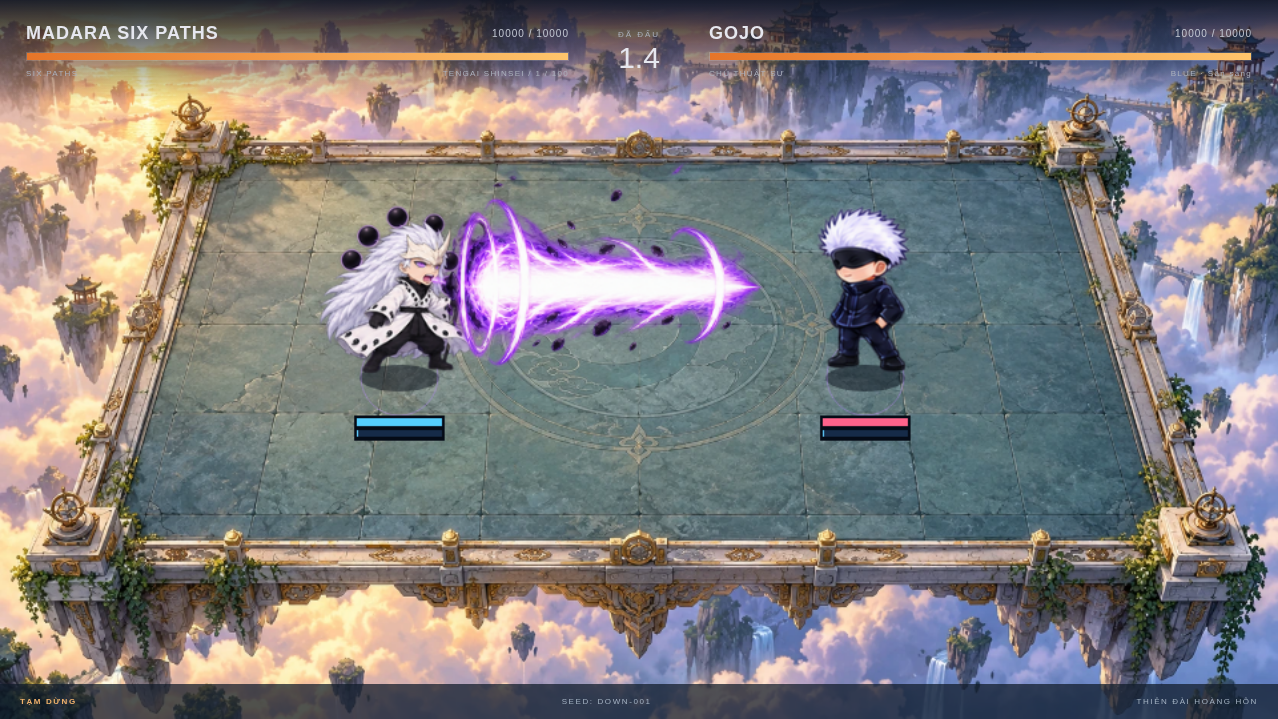
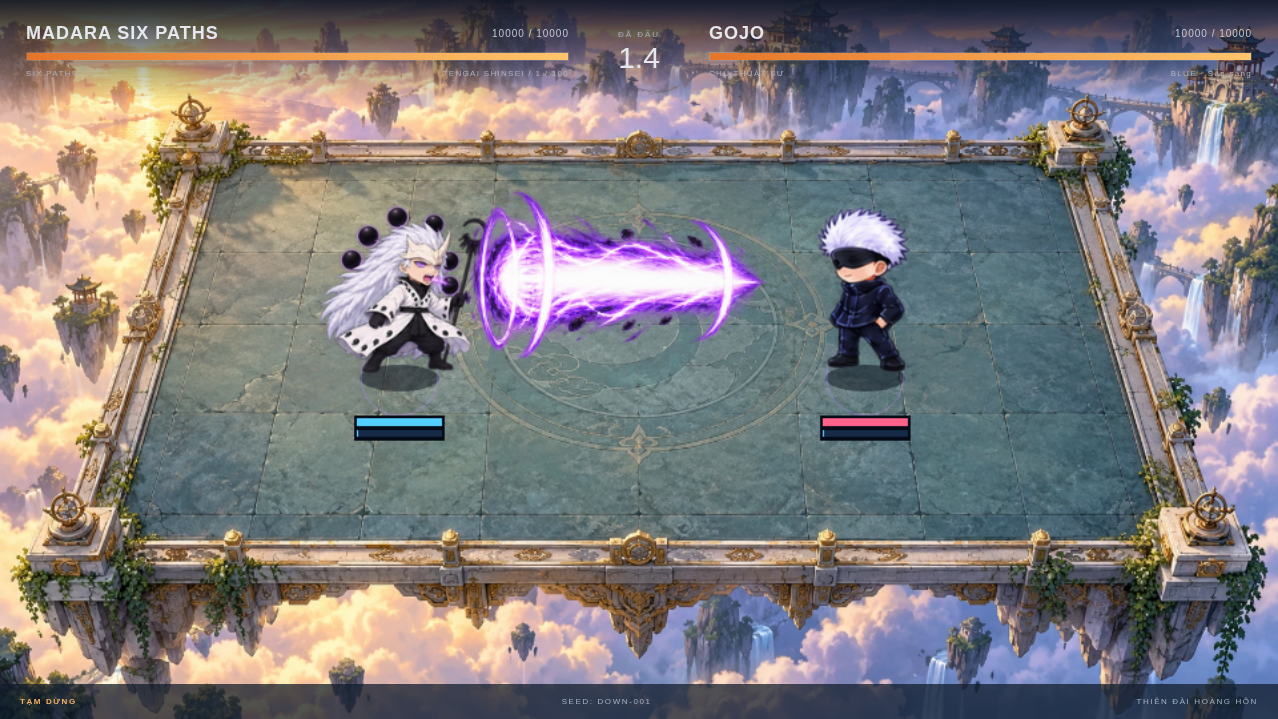
Align Madara meteor warning with the full radial damage area

Changed region(s): [[0.3357, 0.2754, 0.6103, 0.5202]]

diff --git a/dist/src/render/madara.js b/dist/src/render/madara.js
@@ -10,7 +10,7 @@ export function drawMadaraActor(ctx,images,d,f,hurt=false,override=null){let p=m
  madaraSprite(ctx,images,p.key,p.row,p.frame,f.x,y,.86,0,f.face);
 }
 export function drawMadaraBack(ctx,images,d,clock=0){for(const f of d.fighters)if(f.id==='madara'&&f.hp>0){if(f.introAge!=null){const p=f.introAge/2.5;ctx.save();ctx.globalAlpha=.72;madaraSprite(ctx,images,'madara_intro_vfx',0,Math.min(3,Math.floor(p*4)),f.x,f.y+2,.65);ctx.restore();}else if(f.sixPathsAwakened){ctx.save();ctx.globalAlpha=.2;madaraSprite(ctx,images,'madara_intro_vfx',0,2,f.x,f.y,.38);ctx.restore();}}}
-function warning(ctx,x,y,radius,clock){ctx.save();ctx.strokeStyle='#d799ff';ctx.fillStyle='#9e50ff12';ctx.lineWidth=2;ctx.setLineDash([10,7]);ctx.beginPath();ctx.ellipse(x,y,radius,radius*.58,0,0,Math.PI*2);ctx.fill();ctx.stroke();ctx.setLineDash([]);ctx.globalAlpha=.55+.25*Math.sin(clock*10);ctx.beginPath();ctx.ellipse(x,y,radius*.72,radius*.42,0,0,Math.PI*2);ctx.stroke();ctx.restore();}
+function warning(ctx,x,y,radius,clock){ctx.save();ctx.strokeStyle='#d799ff';ctx.fillStyle='#9e50ff12';ctx.lineWidth=2;ctx.setLineDash([10,7]);ctx.beginPath();ctx.ellipse(x,y,radius,radius,0,0,Math.PI*2);ctx.fill();ctx.stroke();ctx.setLineDash([]);ctx.globalAlpha=.55+.25*Math.sin(clock*10);ctx.beginPath();ctx.ellipse(x,y,radius*.72,radius*.72,0,0,Math.PI*2);ctx.stroke();ctx.restore();}
 export function drawMadaraMeteor(ctx,images,x,y,progress,impact=false,reduced=false){if(impact){madaraSprite(ctx,images,'madara_ultimate_vfx',1,Math.min(3,Math.floor(progress*4)),x,y-25,reduced?.88:1.1);}else{const p=Math.max(0,Math.min(1,progress));madaraSprite(ctx,images,'madara_ultimate_vfx',0,Math.min(3,Math.floor(p*4)),x-80*(1-p),y-320*(1-p)-40,1.05);}}
 export function drawMadaraWorld(ctx,images,d,clock=0,reduced=false){for(const f of d.fighters)if(f.id==='madara')for(const s of f.limboShadows||[]){ctx.save();ctx.globalAlpha=.4*Math.min(1,s.life/.4);ctx.filter='sepia(.5) saturate(2) hue-rotate(220deg)';if(!reduced){ctx.shadowColor='#c88aff';ctx.shadowBlur=12;}madaraSprite(ctx,images,'madara',s.state==='melee'?2:1,Math.floor(s.age*8)%4,s.x,s.y,1.02,0,s.face);ctx.restore();}
  const a=d.personalUltimate?.attack;if(a?.kind!=='meteor')return;if(a.phase==='warning')warning(ctx,a.targetX,a.targetY,200,clock);else{const p=(d.tick-a.launch)/42;if(p<1)drawMadaraMeteor(ctx,images,a.targetX,a.targetY,p,false,reduced);else drawMadaraMeteor(ctx,images,a.targetX,a.targetY,(d.tick-a.impactTick)/60,true,reduced);}}
